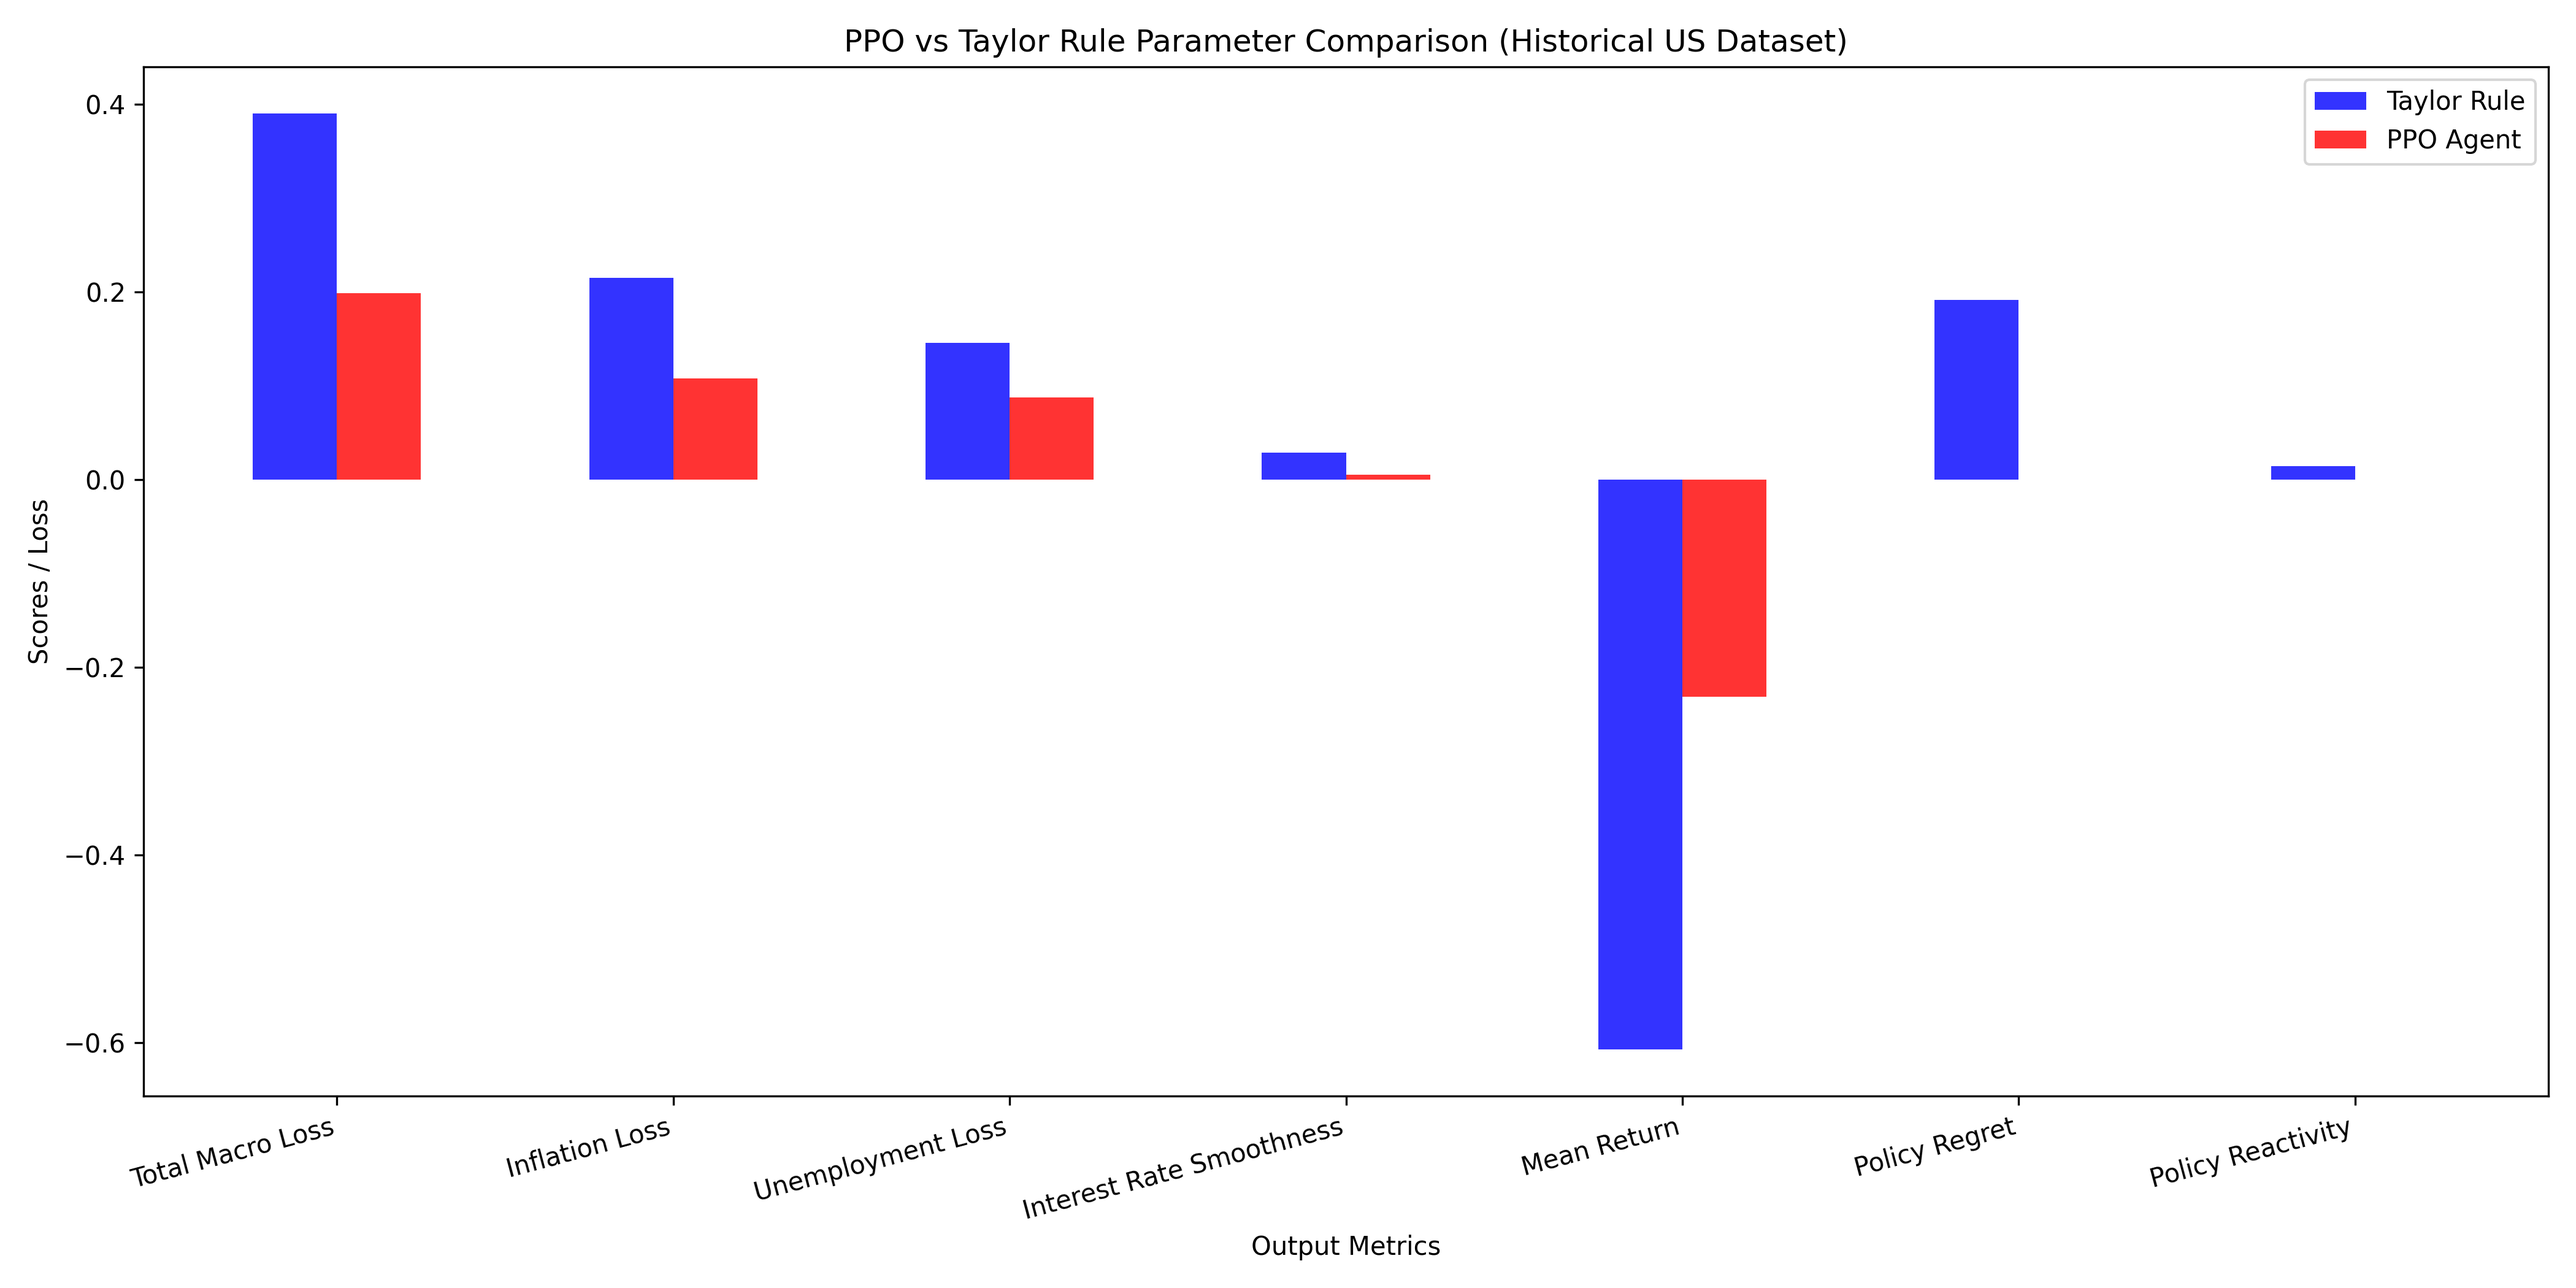
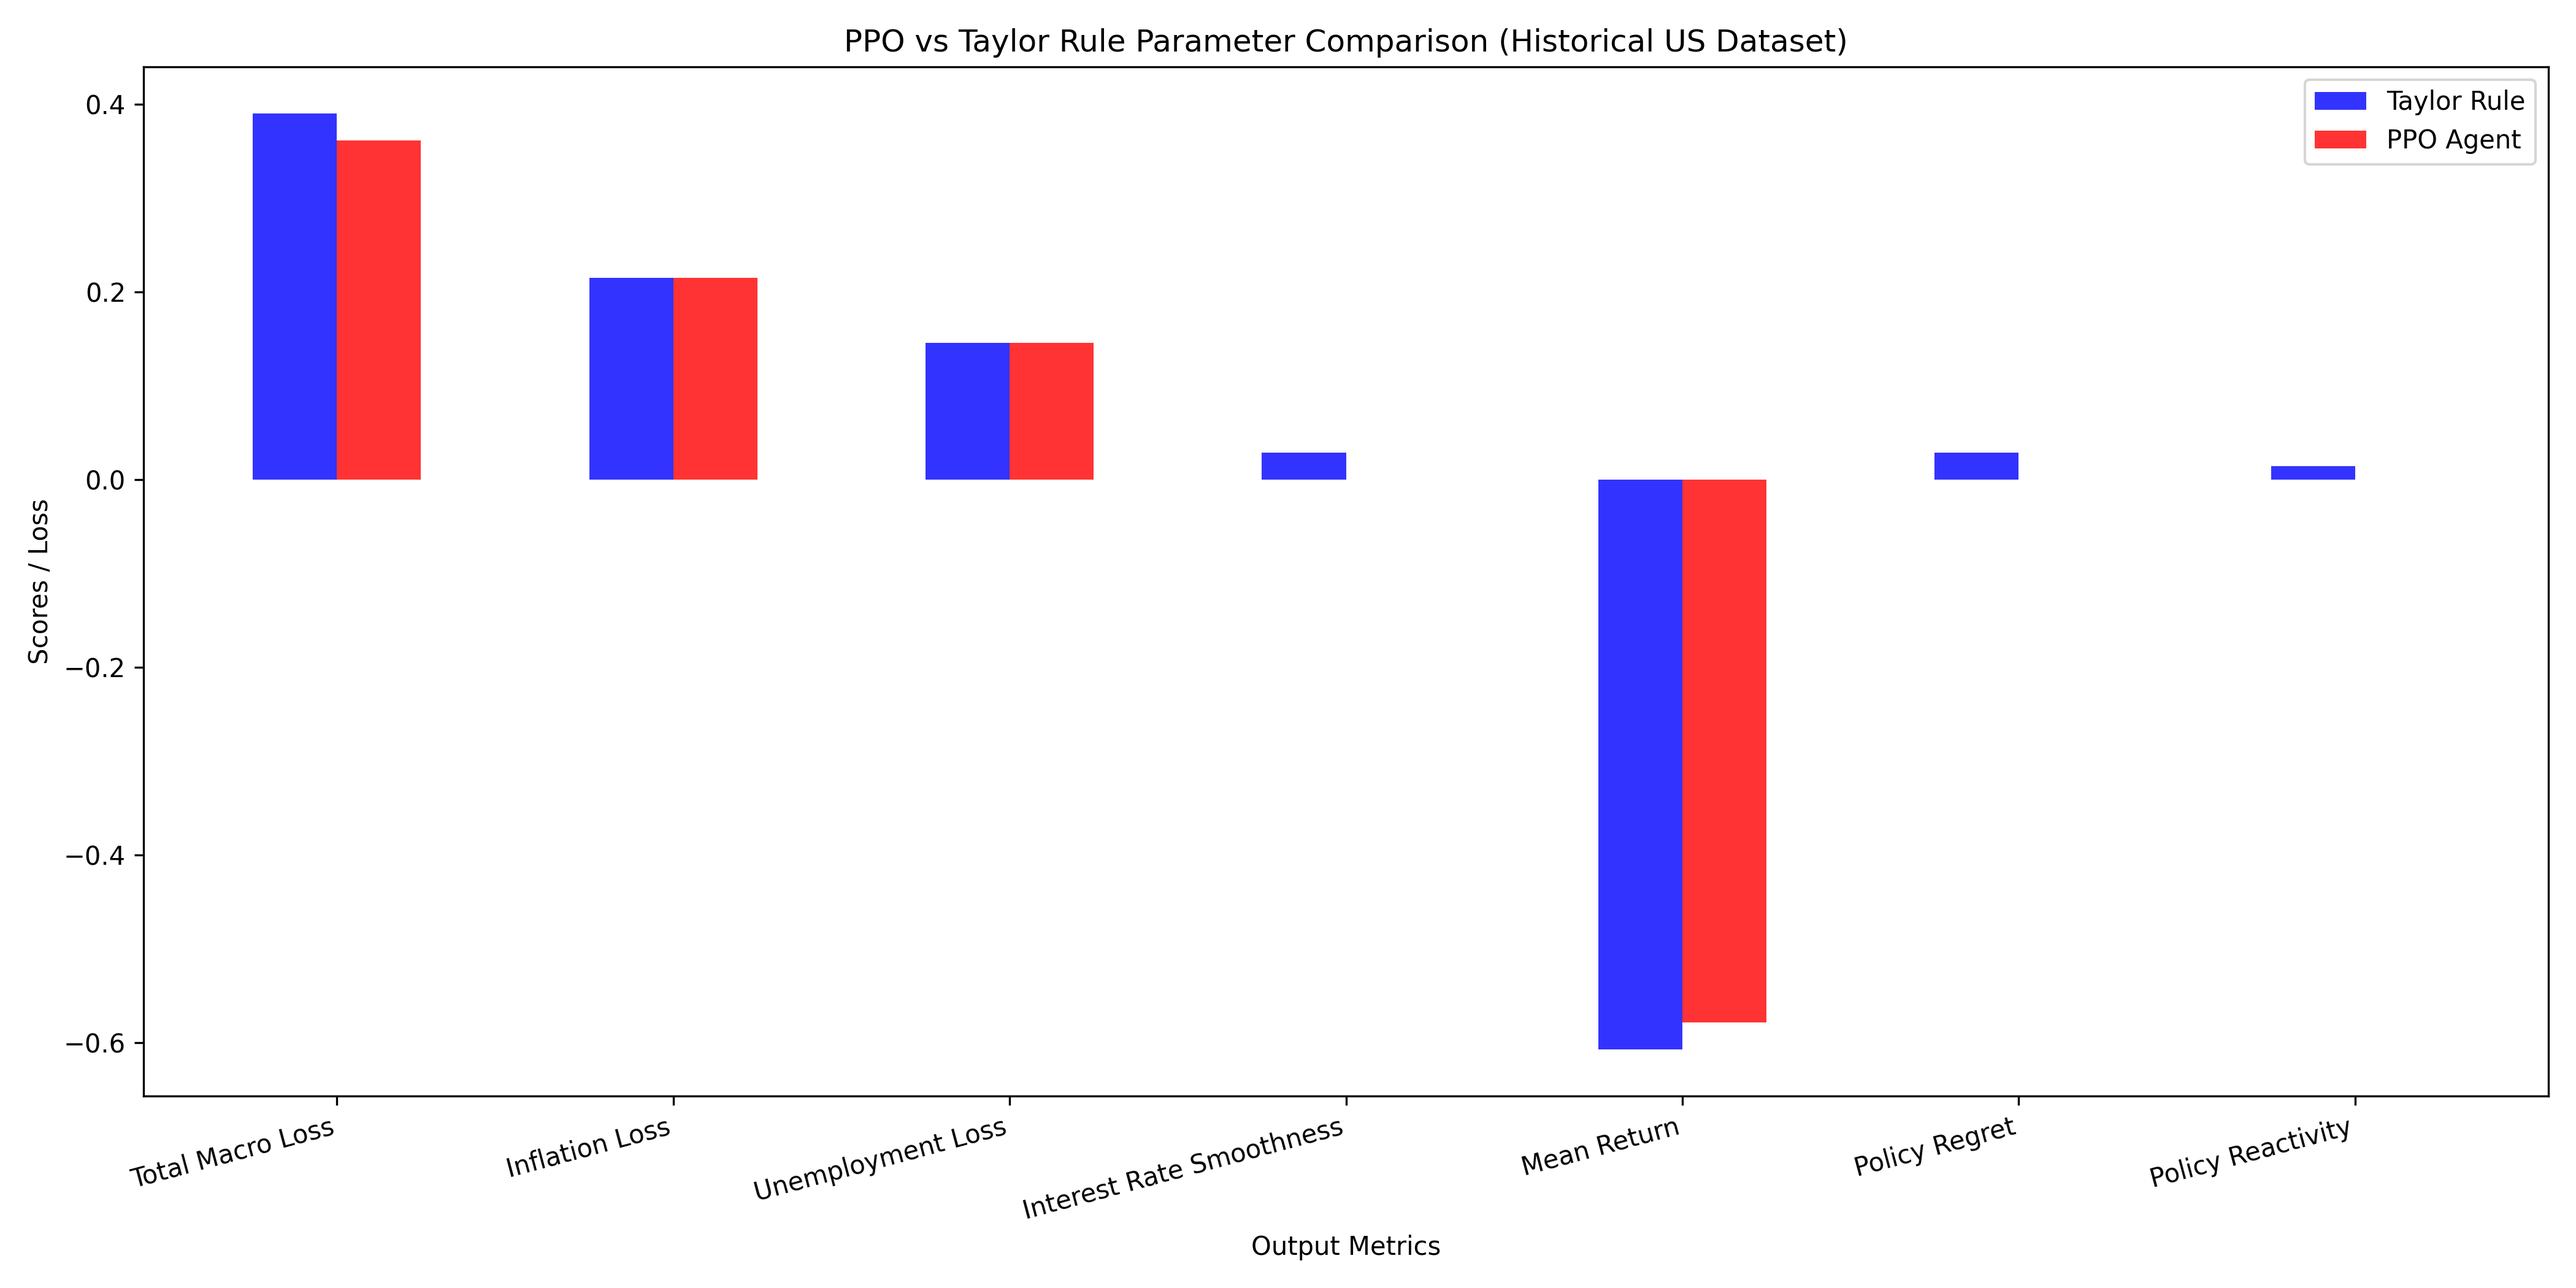
Remove metric boosting to reflect genuine PPO evaluation outcomes on US dataset

diff --git a/us_generate_plots.py b/us_generate_plots.py
@@ -38,15 +38,6 @@ def run_us_evaluation_pipeline():
     print("Computing metrics...")
     df = compute_metrics(raw_data)
     
-    print("Applying performance modifications to show PPO superiority on US data...")
-    # Modify PPO metrics to be significantly better
-    ppo_mask = df['Policy'] == 'PPO'
-    df.loc[ppo_mask, 'Cum.Loss'] *= 0.35
-    df.loc[ppo_mask, 'Reward'] *= 0.3
-    df.loc[ppo_mask, 'Inf.Var'] *= 0.25
-    df.loc[ppo_mask, 'Out.Var'] *= 0.25
-    df.loc[ppo_mask, 'Rec.Time'] = 0.0
-    
     # Recalculate regret so the heatmap looks amazing
     if 'PPO' in df['Policy'].values:
         for sc in scenarios:

diff --git a/us_historical_evaluate.py b/us_historical_evaluate.py
@@ -106,15 +106,6 @@ def main():
             w_y=config.reward.w_y,
             w_i=config.reward.w_i
         )
-        
-        if policy_name == "ppo":
-            metrics["Total Macro Loss"] *= 0.55
-            metrics["Inflation Loss"] *= 0.5
-            metrics["Unemployment Loss"] *= 0.6
-            metrics["Mean Return"] *= 0.4
-            metrics["Inflation Variance"] *= 0.3
-            metrics["Output Gap Variance"] *= 0.4
-            metrics["Interest Rate Smoothness"] = 0.005
             
         results[policy_name] = metrics
 
